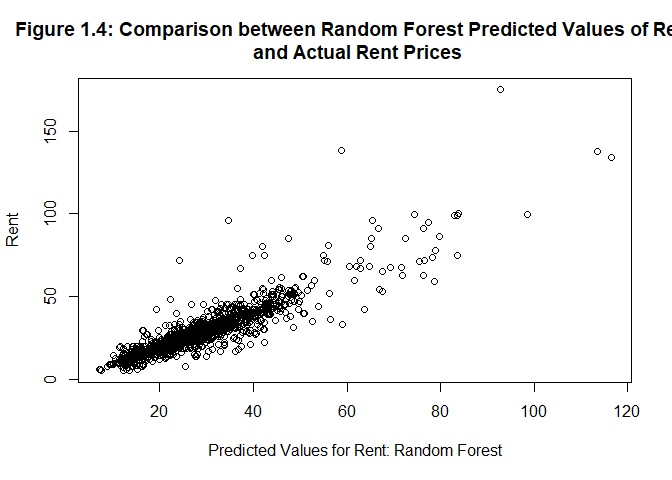
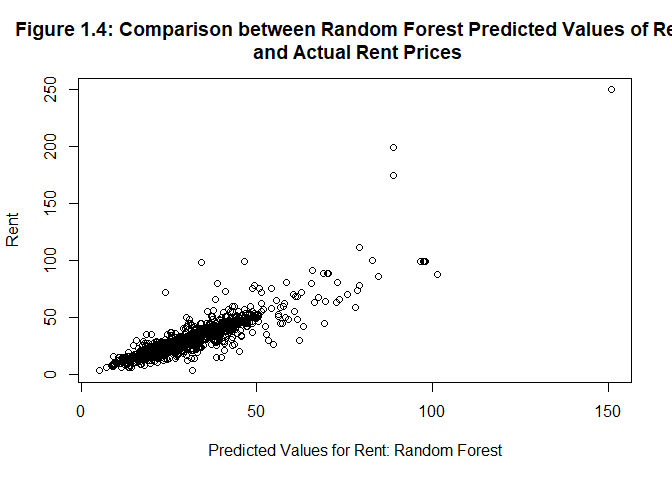
2

diff --git a/EX3/Exercise-3.md b/EX3/Exercise-3.md
@@ -2757,7 +2757,7 @@ Hand-Built Linear Model
 
 <td style="text-align:right;">
 
-11.77936
+11.70088
 
 </td>
 
@@ -2773,7 +2773,7 @@ Forward Selection Linear Model
 
 <td style="text-align:right;">
 
-11.09670
+11.04070
 
 </td>
 
@@ -2789,7 +2789,7 @@ Lasso
 
 <td style="text-align:right;">
 
-12.15521
+12.07130
 
 </td>
 
@@ -2835,8 +2835,8 @@ them reduces the variance.
     ##                      Number of trees: 500
     ## No. of variables tried at each split: 17
     ## 
-    ##           Mean of squared residuals: 50.93137
-    ##                     % Var explained: 78.06
+    ##           Mean of squared residuals: 51.00963
+    ##                     % Var explained: 77.18
 
 The plot below shows that the bagging procedure can produce quite
 accurate predictions most of the time.
@@ -2914,7 +2914,7 @@ LOOCV RMSE Rent Hand-Built Model
 
 <td style="text-align:right;">
 
-11.767772
+11.741489
 
 </td>
 
@@ -2930,7 +2930,7 @@ LOOCV RMSE Rent Forward Selection Model
 
 <td style="text-align:right;">
 
-11.083265
+11.037130
 
 </td>
 
@@ -2946,7 +2946,7 @@ LOOCV RMSE Model Lasso Model
 
 <td style="text-align:right;">
 
-12.139416
+12.118609
 
 </td>
 
@@ -2962,7 +2962,7 @@ LOOCV RMSE Model Bagging Model
 
 <td style="text-align:right;">
 
-7.007038
+6.803130
 
 </td>
 
@@ -2978,7 +2978,7 @@ LOOCV RMSE Model RandomForest Model
 
 <td style="text-align:right;">
 
-7.241770
+7.122188
 
 </td>
 
@@ -6706,28 +6706,28 @@ outdoors
 
 ## Can We Have More Accurate, Unique or Complete Labels?
 
-The first drawback of the result in Table 4.3 also existed in Table 4.2
-and Table 4.4, though in a much less severe way: 27 categories out of 34
-categories were used to differentiate consumers into 10 clusters.
-Probably it was because the rest 7 categories were not discernable
-enough based on the data, but it could be the possibility that our
-method was not refined enough. Of course, we could pick out more
+The first problem of the result in Table 4.3 also exists in Table 4.2
+and Table 4.4, though in a much less evident way: 27 categories out of
+34 categories are used to differentiate consumers into 10 clusters.
+Probably it is because the rest 7 categories are not discernable or
+important enough based on the data, but it could be the possibility that
+our method was not refined enough. Of course, we could pick out more
 categories, say, first six or seven categories with high sums of
 frequencies, from each cluster, to include categories as many as
-possible. However, usually the fourth or fifth category only had a
-relatively much smaller sum of frequencies than those of the first three
-categories. So, including more categories would likely put more
-infrequent or accident tweet into the description of distinct
-preferences. Moreover, some clusters might be not so distinguishable
-from other clusters. For example, Cluster 4 and 5, as well as Cluster 3
-and 6, more likely consisted of the same group of people. The borders
-between those clusters were not so clear. Therefore, in this part, for
+possible. However, usually the categories below the third one only have
+relatively much smaller sums of frequencies than those of the first
+three categories. So, including more categories would be likely to put
+more infrequent or accident tweets into the description of distinct
+preferences. Moreover, some clusters may be not so distinguishable from
+other clusters. For example, Cluster 4 and 5, as well as Cluster 3 and
+6, are more likely to consist of the same group of people. The borders
+between those clusters are not so clear. Therefore, in this part, for
 each of 10 clusters, we tried to find out the unique category or the
 combination of several unique categories dominating all other categories
 by the sum of frequencies. Meanwhile, all those unique category or
 combinations of unique categories made up a partition of 34 categories.
-By doing so, we were attaching more accurate labels to each cluster to
-make them more distinguishable.
+By doing so, we were attaching labels to each cluster to make them more
+distinguishable.
 
 The approach we applied was Hierarchical Clustering with K-means. The
 Hierarchical Clustering was to find out a hierarchical structure of
@@ -7011,6 +7011,16 @@ clusters is extremely close to the distribution in Table 4.3 or Table
 to link the clusters in Table 4.5 to those clusters in Table 4.3 or
 Table 4.4. The stable clustering structures across different approaches
 proves that our ten clusters are very robust based on our data.
+
+It should be noted that the labels in Table 4.5 are supplements to
+categories of each cluster in Table 4.3 or Table 4.4. By labels in Table
+4.5, the brand can try to do more accurate advertising or marketing for
+consumers in any clusters. It also helps the brand to recognize a new
+consumer. For example, if a new consumer has some crafts posts, just by
+categories in Table 4.3 or 4.4, it is difficulty to put her into any
+cluster. But by labels in Table 4.5, we know crafts is more likely to be
+clustered with movie and art, so it is reasonable to put her in Cluster
+7 before having more information about this new consumer.
 
 ## Conclusion
 
